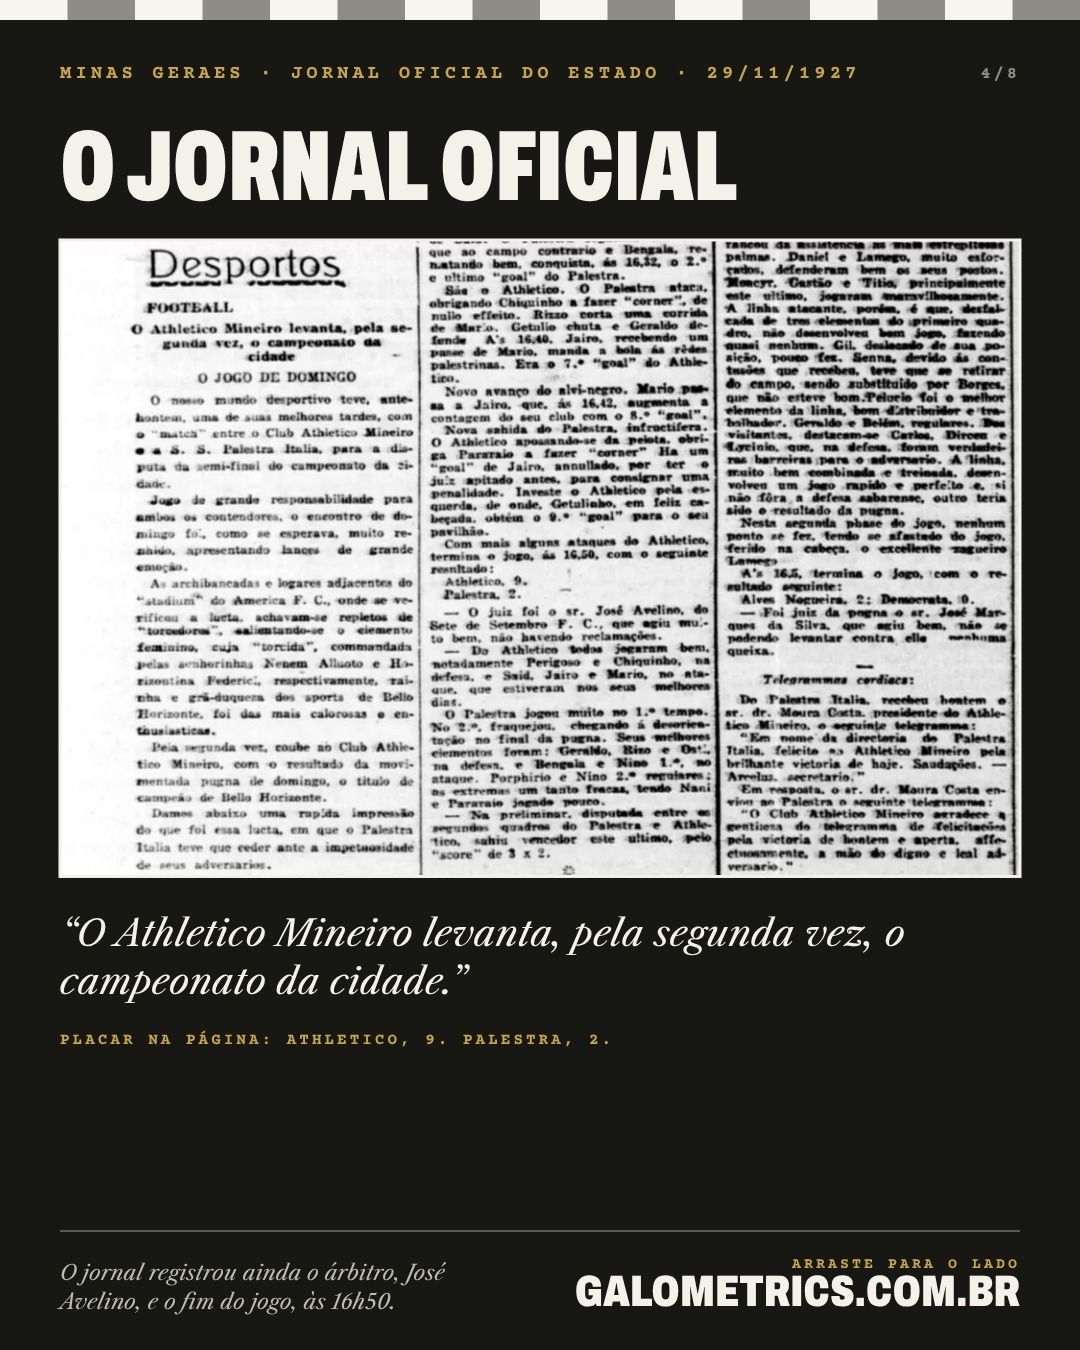
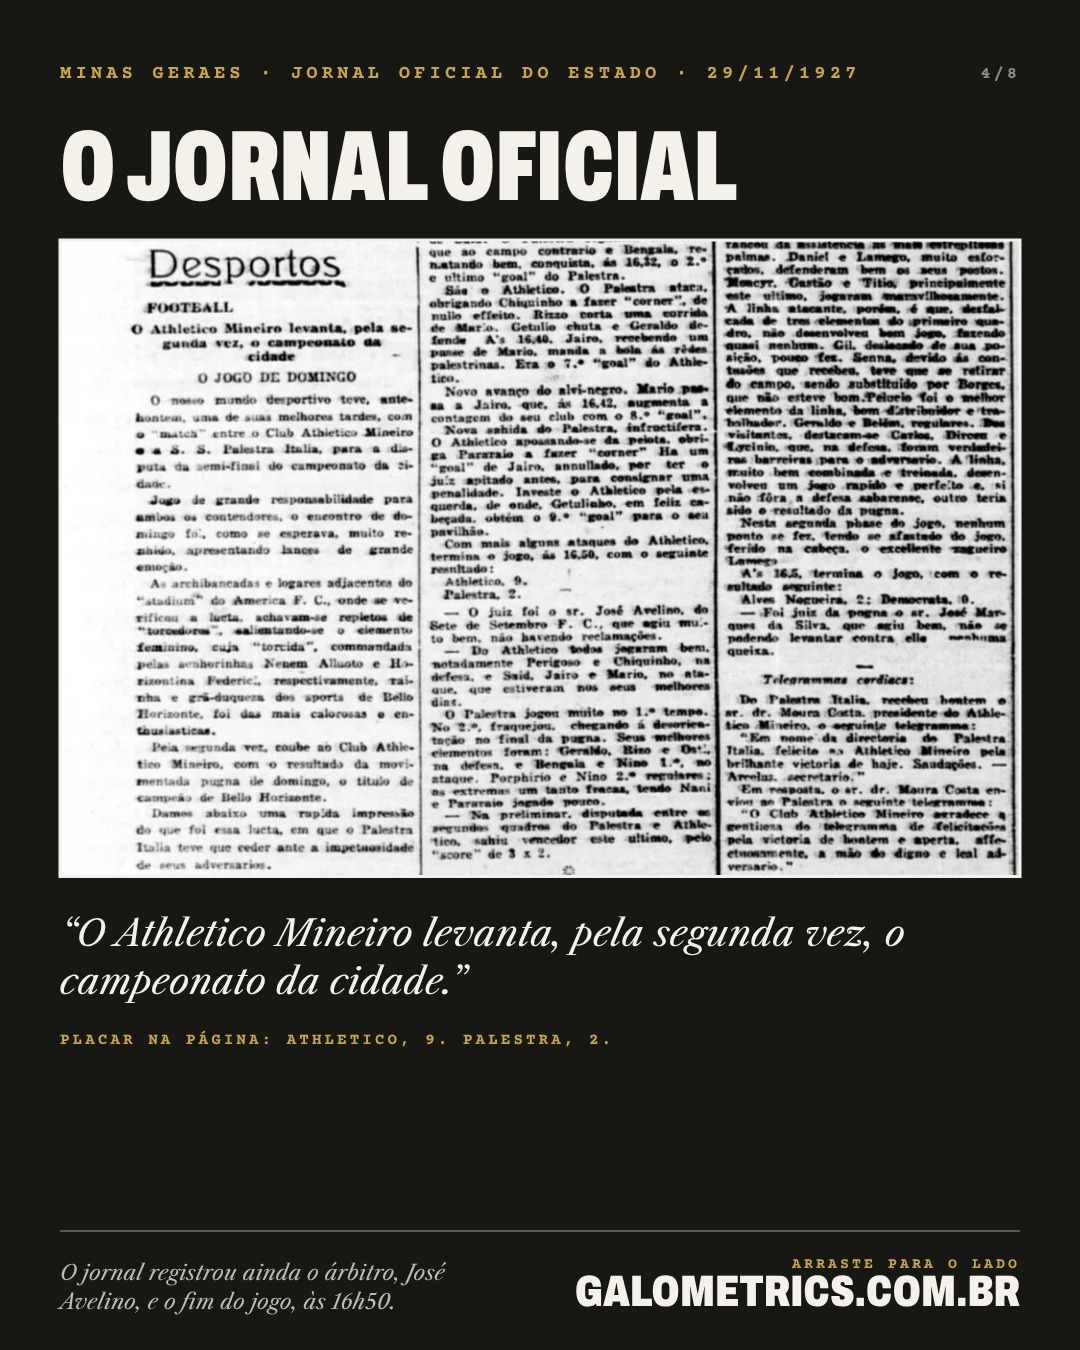
Artes sem a faixa listrada no topo; carrossel 9x2 regerado
Claude-Session: https://claude.ai/code/session_01CwdfqJWN8qsNSZSJtgsHei

Changed region(s): [[0.0, 0.0, 1.0, 0.0311]]

diff --git a/index.html b/index.html
@@ -2374,9 +2374,9 @@ header .lclaro{display:none!important}header .lescuro{display:inline-block!impor
 </div></header>
 <main id="app"><p class="empty">Carregando base de dados…</p></main>
 <footer id="foot"></footer>
-<script>window.GM_BUILD='20261127122151';try{if(/[?&]v=/.test(location.search))history.replaceState(null,'',location.pathname+location.hash);}catch(e){}(function(){var primeira=true;function checa(){try{fetch('version.json?t='+Date.now(),{cache:'no-store'}).then(function(r){return r.json()}).then(function(o){if(!(o&&o.v&&o.v>window.GM_BUILD))return;var url=location.pathname+'?v='+o.v+location.hash;if(primeira){var k='gm-rl-'+o.v;if(sessionStorage.getItem(k))return;sessionStorage.setItem(k,'1');location.replace(url);return;}if(document.getElementById('gm-novo'))return;var d=document.createElement('button');d.id='gm-novo';d.textContent='Tem versão nova do site. Toque para atualizar';d.style.cssText='position:fixed;left:50%;bottom:18px;transform:translateX(-50%);z-index:9999;background:#111;color:#F4F1E8;border:2px solid #C9962B;padding:12px 18px;font:600 15px Oswald,sans-serif;letter-spacing:.04em;cursor:pointer;box-shadow:4px 4px 0 #C9962B';d.onclick=function(){location.replace(url)};document.body.appendChild(d);}).catch(function(){}).then(function(){primeira=false;});}catch(e){}}checa();setInterval(checa,120000);document.addEventListener('visibilitychange',function(){if(!document.hidden)checa();});})();</script>
-<script src="firebase-config.js?v=20261127122151"></script>
-<script src="backend-firebase.js?v=20261127122151"></script>
+<script>window.GM_BUILD='20261127124040';try{if(/[?&]v=/.test(location.search))history.replaceState(null,'',location.pathname+location.hash);}catch(e){}(function(){var primeira=true;function checa(){try{fetch('version.json?t='+Date.now(),{cache:'no-store'}).then(function(r){return r.json()}).then(function(o){if(!(o&&o.v&&o.v>window.GM_BUILD))return;var url=location.pathname+'?v='+o.v+location.hash;if(primeira){var k='gm-rl-'+o.v;if(sessionStorage.getItem(k))return;sessionStorage.setItem(k,'1');location.replace(url);return;}if(document.getElementById('gm-novo'))return;var d=document.createElement('button');d.id='gm-novo';d.textContent='Tem versão nova do site. Toque para atualizar';d.style.cssText='position:fixed;left:50%;bottom:18px;transform:translateX(-50%);z-index:9999;background:#111;color:#F4F1E8;border:2px solid #C9962B;padding:12px 18px;font:600 15px Oswald,sans-serif;letter-spacing:.04em;cursor:pointer;box-shadow:4px 4px 0 #C9962B';d.onclick=function(){location.replace(url)};document.body.appendChild(d);}).catch(function(){}).then(function(){primeira=false;});}catch(e){}}checa();setInterval(checa,120000);document.addEventListener('visibilitychange',function(){if(!document.hidden)checa();});})();</script>
+<script src="firebase-config.js?v=20261127124040"></script>
+<script src="backend-firebase.js?v=20261127124040"></script>
 <script type="application/json" id="db"></script>
 <script>
 let D, J, byId = {};
@@ -4574,7 +4574,6 @@ async function arteBase(caminho, aba, tema){
     if(VI){ const gl=x.createLinearGradient(0,0,W,0); gl.addColorStop(0,'#c2417f'); gl.addColorStop(.6,'#f08a5d'); gl.addColorStop(1,'#f7b267'); x.fillStyle=gl; } else x.fillStyle=GOLD; x.fillRect(0,150,W,5);
   }
   else {
-    for(let i=0;i<16;i++){ x.fillStyle=i%2?'#8e8c86':'#f7f5ef'; x.fillRect(i*W/16,0,W/16+1,20); }
     x.font='700 19px "Courier Prime", monospace'; try{ x.letterSpacing='4px'; }catch(e){} x.fillStyle=GOLD; x.textAlign='left'; x.textBaseline='alphabetic'; x.fillText(('GALO METRICS · '+(aba||'Edição digital')).toUpperCase().slice(0,60),P,86);
     x.font='700 17px "Courier Prime", monospace'; try{ x.letterSpacing='2px'; }catch(e){} x.fillStyle='#8e8c86'; x.fillText(('galometrics.com.br'+(caminho||'')).slice(0,70),P,120); try{ x.letterSpacing='0px'; }catch(e){}
     x.fillStyle='#5b5953'; x.fillRect(P,150,W-2*P,2);
@@ -6734,7 +6733,7 @@ async function desenhaArteListaReels(s,rows,tit,unid,tipo,res,id){
     while(sz>16&&med(sz)>max) sz-=2; let cx=px; x.textAlign='left'; x.textBaseline='alphabetic'; partes.forEach(pt=>{ const g=/^\(\d+\)$/.test(pt); x.font=F(g&&f==='casb'?'cas':f,sz); x.fillStyle=g?cg:c; x.fillText(pt,cx,py); cx+=x.measureText(pt).width; }); return sz; };
   const fitRich=(t,f,sz,max)=>{ const partes=String(t).split(/(\(\d+\))/).filter(Boolean); const med=z=>partes.reduce((w,pt)=>{ x.font=F(/^\(\d+\)$/.test(pt)&&f==='casb'?'cas':f,z); return w+x.measureText(pt).width; },0); while(sz>16&&med(sz)>max) sz-=2; return sz; };
   const wrapW=(t,f,sz,max)=>{ x.font=F(f,sz); const ws=String(t).split(/\s+/); const ls=[]; let ln=''; for(const w of ws){ const tt=ln?ln+' '+w:w; if(x.measureText(tt).width>max&&ln){ ls.push(ln); ln=w; } else ln=tt; } if(ln) ls.push(ln); return ls; };
-  x.fillStyle=PAP; x.fillRect(0,0,W,H); for(let i=0;i<16;i++){ x.fillStyle=i%2?'#8e8c86':'#f7f5ef'; x.fillRect(i*W/16,0,W/16+1,20); }
+  x.fillStyle=PAP; x.fillRect(0,0,W,H);
   const galoIm=await loadImg(galoEsc(hojeStr()));
   // topo
   let y=110; x.font='700 22px "Courier Prime", monospace'; x.letterSpacing='5px'; x.fillStyle=GOLD; x.textAlign='left'; x.fillText('GALO METRICS · RANKING',P,y); x.letterSpacing='0px';
@@ -7599,7 +7598,6 @@ async function arteDossie(){
   const wrap=(t,px,py,max,lh,c)=>{ x.fillStyle=c; x.textAlign='left'; const ws=String(t).split(/\s+/); let ln='',y=py; for(const w of ws){ const tt=ln?ln+' '+w:w; if(x.measureText(tt).width>max&&ln){ x.fillText(ln,px,y); ln=w; y+=lh; } else ln=tt; } if(ln) x.fillText(ln,px,y); return y; };
   x.fillStyle=INK; x.fillRect(0,0,W,H);
   const faixa=(y,h)=>{ for(let i=0;i<16;i++){ x.fillStyle=i%2?CZ:BR; x.fillRect(i*W/16,y,W/16+1,h); } };
-  faixa(0,20);
   const kicker=(t,y)=>{ mono(19,4); txt(t.toUpperCase(),P,y,OURO); };
   const fachada=(itens,y,h)=>{ const n=itens.length, w=(W-2*P)/n; x.strokeStyle=PAP; x.lineWidth=3; x.strokeRect(P,y,W-2*P,h);
     itens.forEach(([v,l],i)=>{ const px=P+i*w; x.fillStyle=i%2?CZ:BR; x.fillRect(px+(i?1:1.5),y+1.5,w-(i?1:1.5)-(i===n-1?1.5:0),h-3); if(i){ x.fillStyle=INK; x.fillRect(px-1,y,2,h); }
